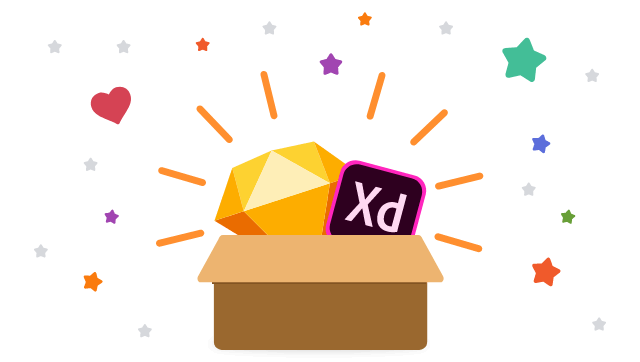
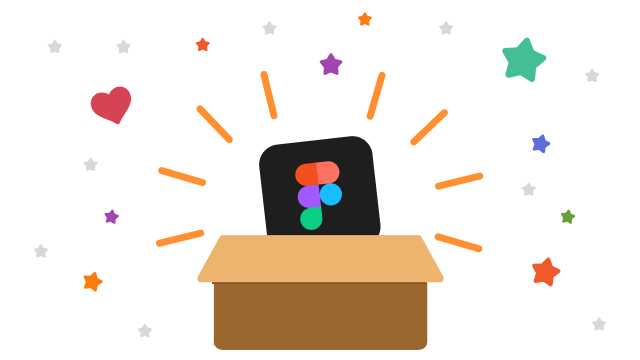
[35142] Overview Pages/Quick Tips: Remove Sketch and XD references, update images

diff --git a/en/quick-tips.md b/en/quick-tips.md
@@ -1,7 +1,7 @@
 ---
 title: Tips for Indigo.Design
 _description: Quickly discover all the aspects of the design-to-code story with Indigo.Design
-_keywords: Ignite UI for Angular, Angular, Native Angular Components Suite, Native Angular Controls, Native Angular Components, Native Angular Components Library, Angular Grid, Angular Data Grid, Angular Grid Control, Angular Grid Component, code generation, prototyping, usability, videos, analytics
+_keywords: Design Systems, Design Systems UX, UI kit, Ignite UI for Angular, Angular, Angular Design System, Design Kits for Angular, Figma, Figma to Angular, Export code from Figma, Figma HTML, Figma to HTML, Figma UI kits
 ---
 
 # Tips 
@@ -14,8 +14,8 @@ _keywords: Ignite UI for Angular, Angular, Native Angular Components Suite, Nati
 <img class="responsive-img" src="images/tips1.png" srcset="images/tips1@2x.png 2x" />
 <div class="divider--half"></div>
 
-### Well-crafted UI Kits for Figma, Sketch and Adobe XD.
-Do you know that with Indigo.Design UI kit for Figma, Sketch and Adobe XD, everything you create uses a design system? All styling specs and themes match real Angular components. You get 400+ icons, special colors palettes, 17 customizable illustrations, etc. [Read more](./style/styling-overview.md)
+### Well-crafted UI Kits for Figma
+Do you know that with Indigo.Design UI kit for Figma, everything you create uses a design system? All styling specs and themes match real Angular components. You get 400+ icons, special colors palettes, 17 customizable illustrations, etc. [Read more](./style/styling-overview.md)
 
 <div class="divider--half"></div>
 <div class="divider--half"></div>
@@ -26,7 +26,7 @@ Do you know that with Indigo.Design UI kit for Figma, Sketch and Adobe XD, every
 <div class="divider--half"></div>
 
 ### Endless theming options and styling.
-Use our 6 pre-built themes based on Material, Bootstrap & Fluent with a dark and light version. Or switch to Indigo Theme - inspired by our own design language. If those don't match your app or corporate branding, the theming and styling options let you create a custom theme. [Read more...](./plugins/sketch-plugin.md)
+Use our 6 pre-built themes based on Material, Bootstrap & Fluent with a dark and light version. Or switch to Indigo Theme - inspired by our own design language. If those don't match your app or corporate branding, the theming and styling options let you create a custom theme. [Read more...](./plugins/figma-plugin.md)
 
 <div class="divider--half"></div>
 <div class="divider--half"></div>
@@ -36,19 +36,8 @@ Use our 6 pre-built themes based on Material, Bootstrap & Fluent with a dark and
 <img class="responsive-img" src="images/tips3.png" srcset="images/tips3@2x.png 2x" />
 <div class="divider--half"></div>
 
-### With interactive prototyping and user testing functionality. 
-Create interactive prototypes with Indigo.Design and perform remote user testing with real users on any device or platform. Get user insights, simplified collaboration with stakeholders, in-depth analytics on users’ behavior, and video and audio recordings of the user testing journey. [Read more...](prototyping/creating-a-prototype.md)
-
-<div class="divider--half"></div>
-<div class="divider--half"></div>
-<div class="divider--half"></div>
-<div class="divider--half"></div>
-<div class="divider--half"></div>
-<img class="responsive-img" src="images/tips4.png" srcset="images/tips4@2x.png 2x" />
-<div class="divider--half"></div>
-
 ### Publish your designs as a web app.
-Use the “Create app” option in your plugin to translate all the UI kit components in your design into code components, and publish your app. Continue to extend the app using our web-based WYSIWYG App Builder and your development team will be able to generate enterprise-ready Angular code. [Read more...](https://www.infragistics.com/products/appbuilder/docs/app-builder-overview)
+Use the “Create app” option in your plugin to translate all the UI kit components in your design into code components, and publish your app. Continue to extend the app using our web-based WYSIWYG App Builder and your development team will be able to generate enterprise-ready Angular code. [Read more...](https://www.appbuilder.dev/help/app-builder-overview)
 
 <div class="divider--half"></div>
 <div class="divider--half"></div>
@@ -59,7 +48,7 @@ Use the “Create app” option in your plugin to translate all the UI kit compo
 <div class="divider--half"></div>
 
 ### Got an external data source?
-Ignite UI App Builder arrives with data source options that let you connect to any REST data source or upload a JSON file. Just go and connect it in the Data Source panel. [Read more...](https://www.infragistics.com/products/appbuilder/docs/using-data-in-your-app)
+Ignite UI App Builder arrives with data source options that let you connect to any REST data source or upload a JSON file. Just go and connect it in the Data Source panel. [Read more...](https://www.appbuilder.dev/help/using-data-in-your-app)
 
 <div class="divider--half"></div>
 <div class="divider--half"></div>
@@ -68,8 +57,10 @@ Ignite UI App Builder arrives with data source options that let you connect to a
 <div class="divider--half"></div>
 <img class="responsive-img" src="images/tips6.png" srcset="images/tips6@2x.png 2x" />
 <div class="divider--half"></div>
+
 ### Don't start building your app from scratch.
-Start with a pre-made Sketch/XD file or download our application samples and make them your own, using a toolbox of 60+ UI controls. Then, with one click, you generate high-quality HTML, CSS, and Angular code right from your design. [Read more...](components/components-overview.md)
+Start with a pre-made Figma file or download our application samples and make them your own, using a toolbox of 60+ UI controls. Then, with one click, you generate high-quality HTML, CSS, and Angular code right from your design. [Read more...](components/components-overview.md)
+
 
 <div class="divider--half"></div>
 <div class="divider--half"></div>
@@ -80,7 +71,7 @@ Start with a pre-made Sketch/XD file or download our application samples and mak
 <div class="divider--half"></div>
 
 ### Do you know that Ignite UI App Builder uses Flexbox?
-We offer Flex as one of the approaches to create layouts for your web app. It is available as a row or column layout component in the toolbox. Cross-browser compatibility and app adaptability to any screen size is guaranteed. [Read more...](https://www.infragistics.com/products/appbuilder/docs/flex-layouts/flex-layouts)
+We offer Flex as one of the approaches to create layouts for your web app. It is available as a row or column layout component in the toolbox. Cross-browser compatibility and app adaptability to any screen size is guaranteed. [Read more...](https://www.appbuilder.dev/help/flex-layouts/flex-layouts)
 
 <div class="divider--half"></div>
 <div class="divider--half"></div>
@@ -89,5 +80,6 @@ We offer Flex as one of the approaches to create layouts for your web app. It is
 <div class="divider--half"></div>
 <img class="responsive-img" src="images/tips8.png" srcset="images/tips8@2x.png 2x" />
 <div class="divider--half"></div>
+
 ### Design → User testing → Instant app preview.
 As a full design-to-code solution, it covers and streamlines the entire process, letting you and your colleagues use a single working environment, build apps 10x faster, and get to pixel-perfect solutions before even writing any code! [Read more...](getting-started.md)
